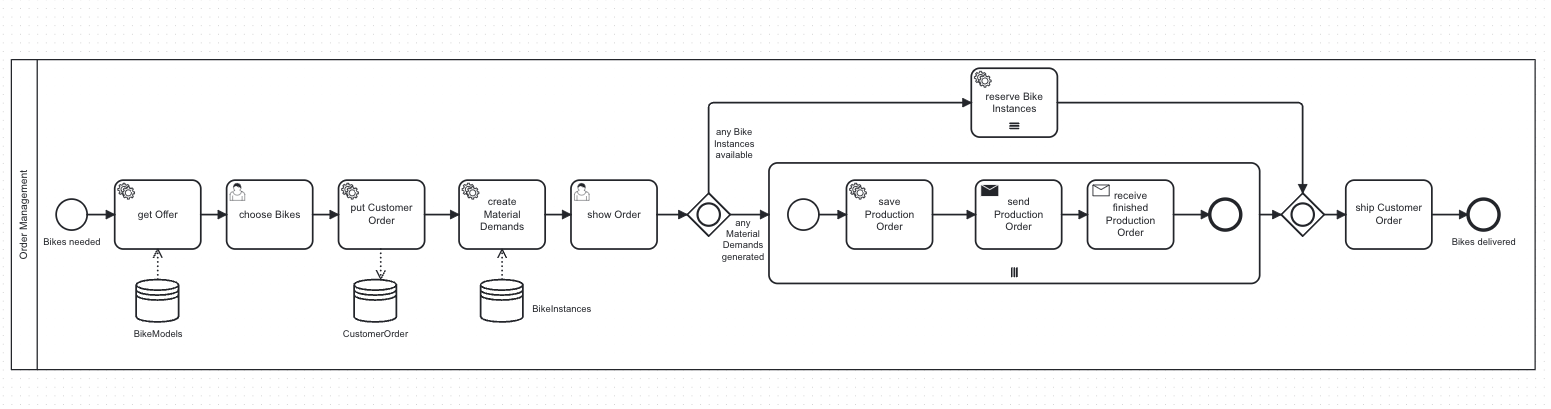
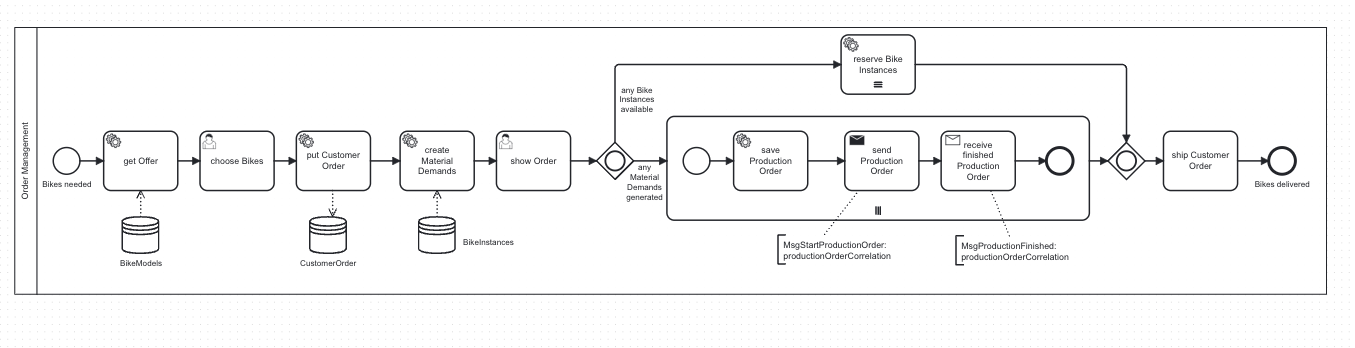
update README

diff --git a/README.md b/README.md
@@ -6,23 +6,35 @@ This repository contains the source code and configuration files of the implemen
 
 ## state of affairs
 
+## Prerequisites
+
+-> Docker desktop application based on your system preference (Windows/macOS)
+or Docker nativ (Linux)
+
+#### Run
+    docker compose -f docker-compose.yaml
+to start Mysql DBMS and Camunda self-managed
+
 ### BPALabBikeFactoryOrderManagement
-- java spring-boot-starter-camunda-sdk mysql gradle
+- java spring-boot-starter-camunda-sdk(c8) mysql(9) gradle
 ![](bpa_lab_ordermanagement_process/bpmn/BPALabBikeFactoryOrderManagement.png)
+#### Run
+    gradle bootRun
 
 ### BPALabBikeFactoryProduction
-- java spring-boot-starter-camunda-sdk mysql gradle
+- java spring-boot-starter-camunda-sdk(c8) mysql(9) gradle
 ![](/bpa_lab_productioncontrol_process/bpmn/BPALabBikeFactoryProductionControl.png)
+#### Run
+    gradle bootRun
 
 ### BPALabBikeFactoryPurchase
 - nodejs mysql @camunda8/sdk
 ![](/bpa_lab_purchasing_process/bpmn/bpa_lab_purchase_process.png)
+#### Run
+    npm start
 
 ### Containerisation in preparation
 - docker compose, dockerfiles, .env
 
-## Prerequisites
-
--> Docker desktop application based on your system preference (Windows/macOS)
 
 -> More to be added